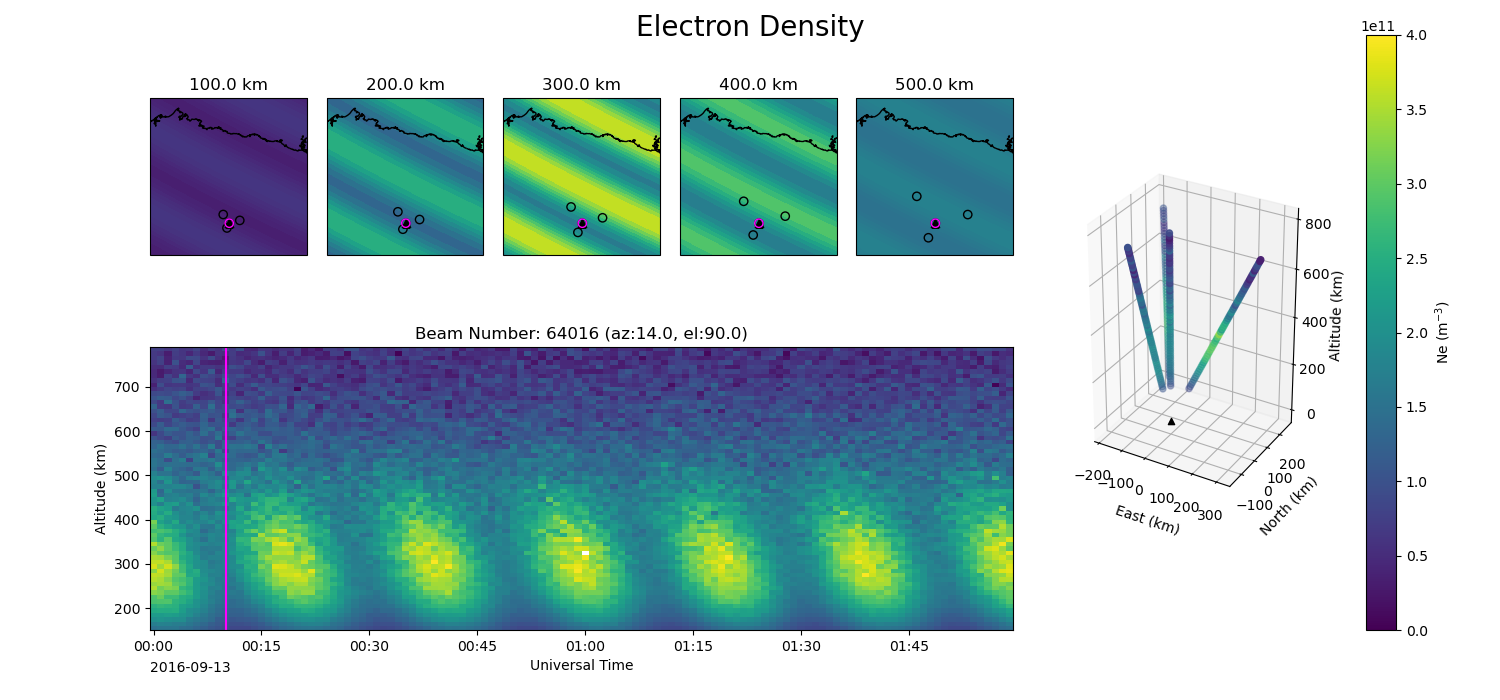
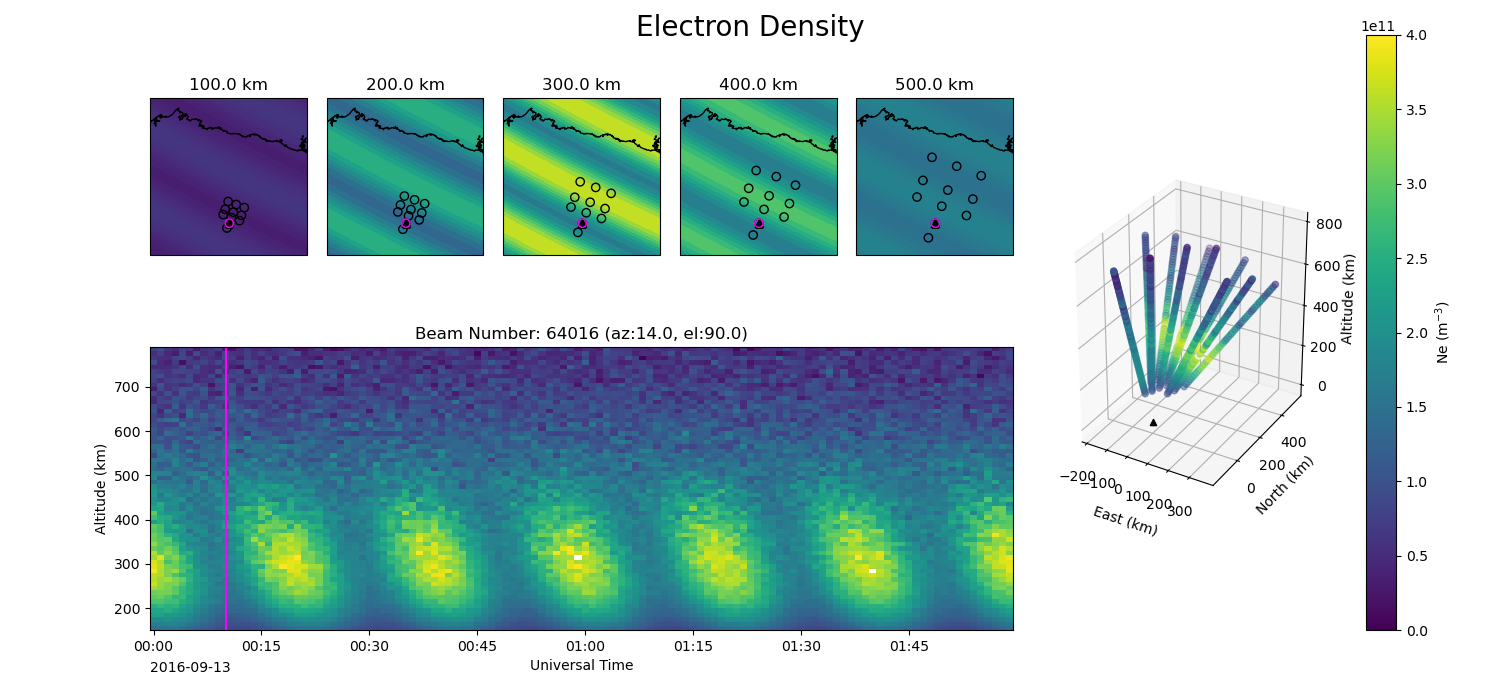
Add new figures.

diff --git a/manuscript/paper.md b/manuscript/paper.md
@@ -19,6 +19,10 @@ bibliography: paper.bib
 
 Advanced Modular Incoherent Scatter Radars (AMISR) are a class of ground-based radars that are used to study plasma dynamics in the ionosphere [@Kelly2009].  Ionospheric plasma is highly variable and structured, both spatially and temporally, on a wide range of scales. There are large and often abrupt variation in the plasma state parameters depending on geomagnetic conditions and local or global impulse events. AMISR remotely measures the electron density, $N_e$, ion temperature, $T_i$, electron temperature, $T_e$, and line-of-sight component of the drift velocity, $V_{los}$, of the plasma in the ionosphere.  These ionospheric state parameters are measured in profiles over different look directions over time.  AMISR utilizes phased-array technology to steer the radar beam electronically, which allows it to change look directions rapidly with a sub-second timescale.  This allows the radar to both effectively collect data from different look directions nearly simultaneously and have a great degree of flexibility in terms of beam positions and mode designs.  Most standard modes use between 4 and 50 beams, roughly evenly spread across the radar field-of-view.  Some specialized modes use tight clusters of beams, or other unusual configurations to observe specific phenomena. This flexibility, as well as the radars' locations in regions that are key for magnetosphere-ionosphere coupling, make them a heavily utilized and invaluable resource for space physics research.
 
+![A 3D visualization of synthetic data from a commonly run 11 beam AMISR mode.](amisr3d.png)
+
+![The full size of the field-of-view and possible beam positions for AMISR.](pfisr_beams.png)
+
 The `amisrsynthdata` package produces synthetic data for AMISR.  It is written purely in python, with use of common numeric and array manipulation libraries [@numpy; @h5py; @pymap3d; @matplotlib; @cartopy].  Users create a configuration file containing information both about the radar operational mode and the ionospheric states, which the package then uses to create a synthetic data file showing what the data would be expected to look like if the radar were to measure the specified phenomena in the specified mode.  This is useful for several things related to ensuring efficient and effective use of the facilities.
 
 1. **Validation of higher level data products:** AMISR data are often used in sophisticated inversion and interpolation procedures to generate high level data products.  These include things such as generating vector velocities from the line-of-sight measurements [@Heinselman2008; @Nicolls2014], 3D volumetric interpolations [@Lamarche2020], and inversion of the precipitating energetic particle spectra [@Semeter2005].  When developing these algorithms, it is important to have "truth" data to validate against.  Because there are no datasets available that directly measure these higher level parameters, using synthetic data where the ionospheric state is known unambiguously independent of sampling or instrument effects can be convenient.
